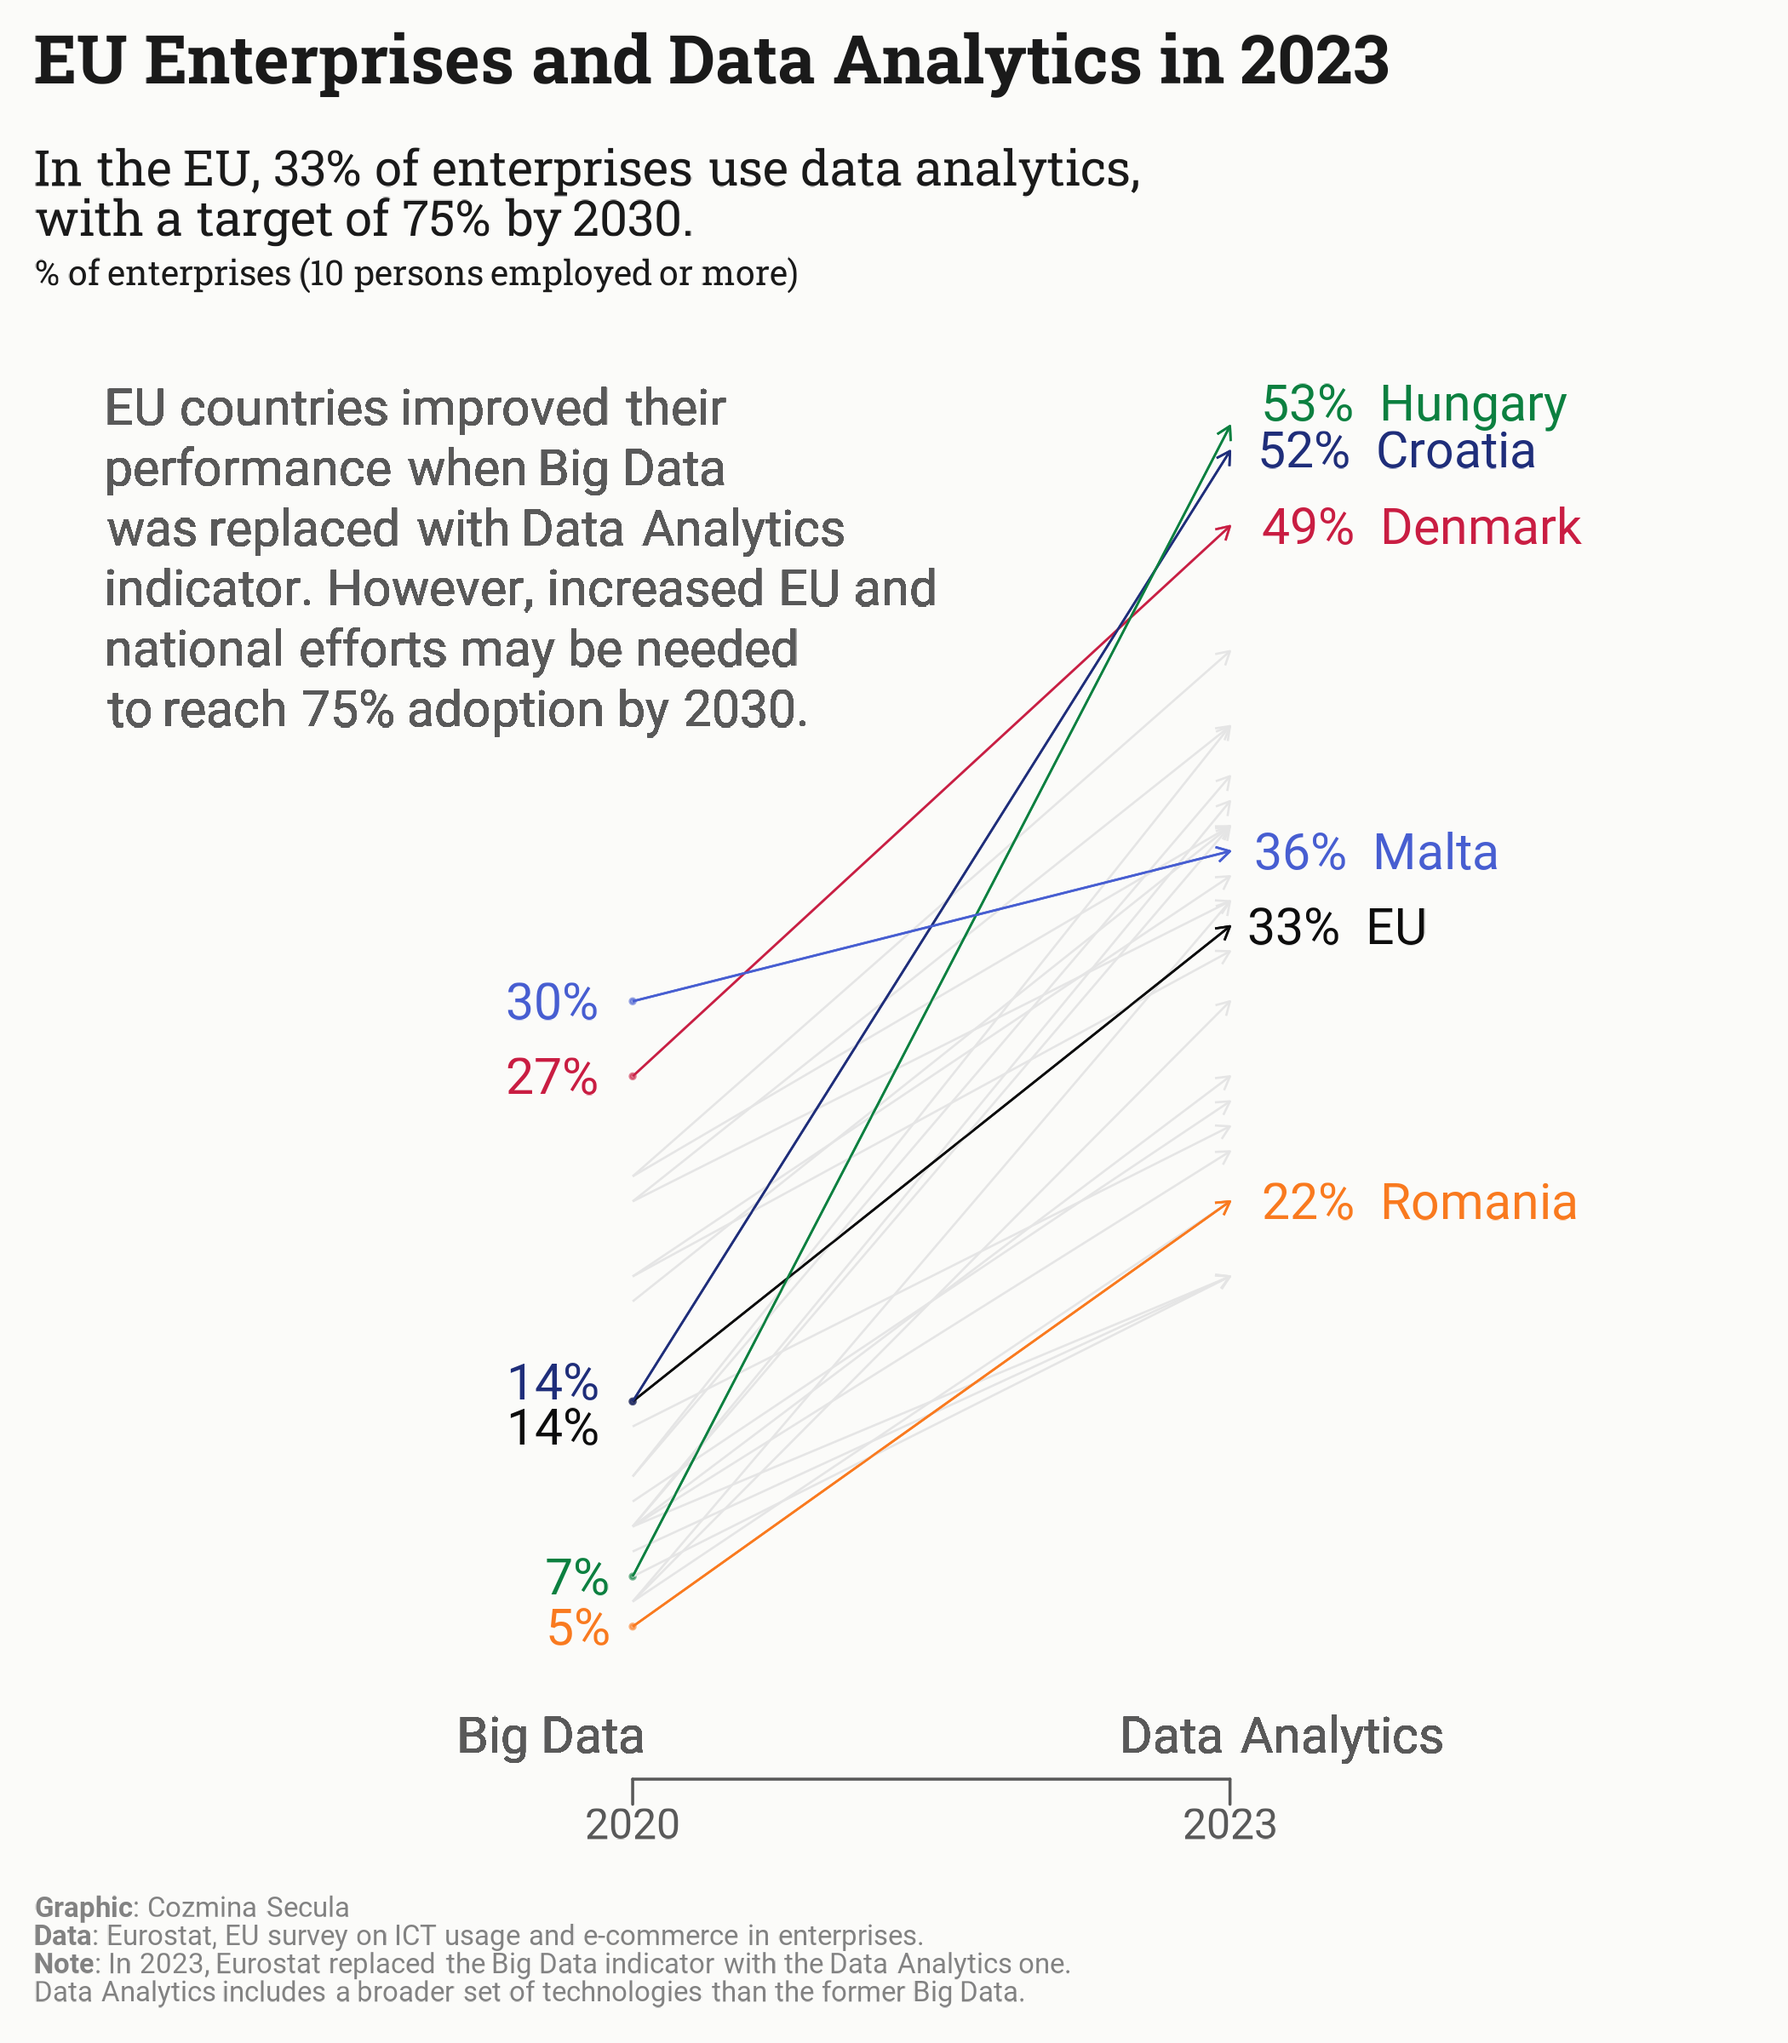
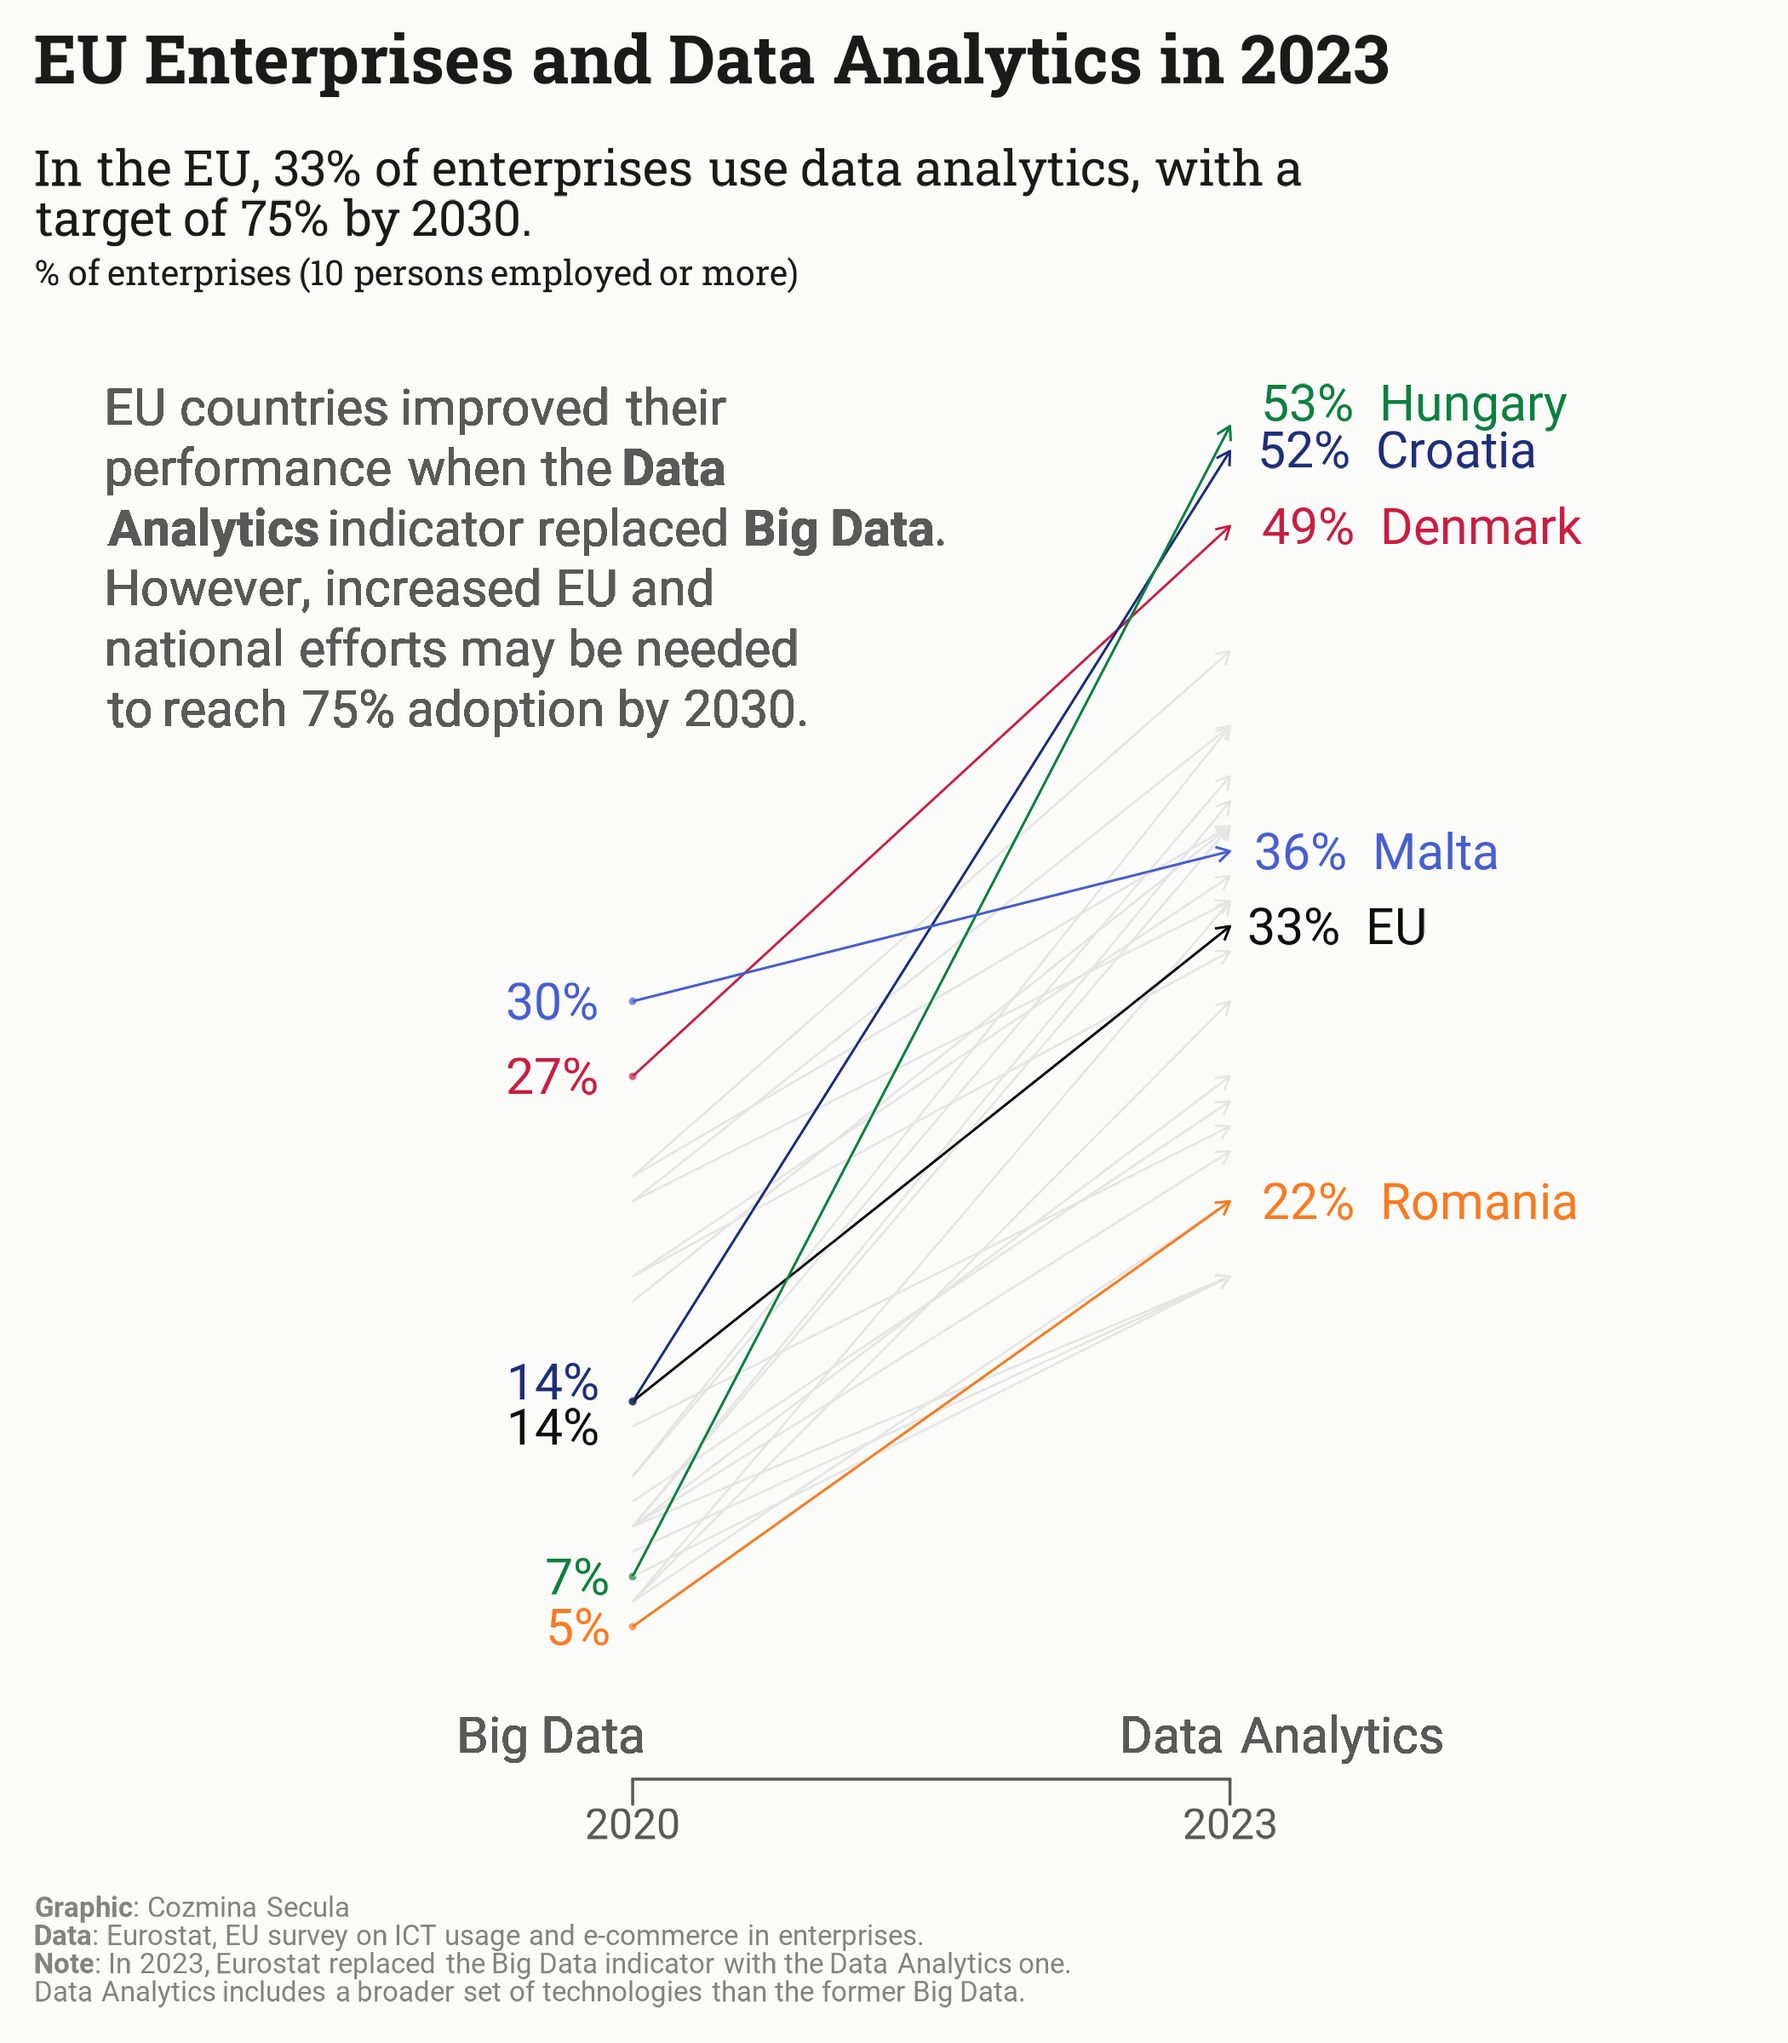
update

Changed region(s): [[0.0619, 0.2188, 0.5262, 0.3125], [0.031, 0.0938, 0.3714, 0.125], [0.65, 0.0625, 0.7429, 0.0938]]

diff --git a/docs/weekly_dataviz/week_4_2024_09_26/index.html b/docs/weekly_dataviz/week_4_2024_09_26/index.html
@@ -281,7 +281,7 @@ pre > code.sourceCode > span > a:first-child::before { text-decoration: underlin
 <span><span class="co"># Plot --------------------------------------------------------------------</span></span>
 <span></span>
 <span><span class="va">subtitle</span> <span class="op">&lt;-</span> <span class="fu"><a href="https://rdrr.io/r/base/paste.html">paste0</a></span><span class="op">(</span></span>
-<span>  <span class="st">"In the EU, 33% of enterprises use data analytics, &lt;br&gt;with a target of 75% by 2030.&lt;br&gt;"</span>,</span>
+<span>  <span class="st">"In the EU, 33% of enterprises use data analytics, with a &lt;br&gt;target of 75% by 2030.&lt;br&gt;"</span>,</span>
 <span>  <span class="st">"&lt;span style='font-size:13px'&gt;% of enterprises (10 persons employed or more)&lt;/span&gt;"</span></span>
 <span><span class="op">)</span></span>
 <span></span>
@@ -292,7 +292,7 @@ pre > code.sourceCode > span > a:first-child::before { text-decoration: underlin
 <span></span>
 <span><span class="va">title</span> <span class="op">&lt;-</span> <span class="fu"><a href="https://rdrr.io/r/base/paste.html">paste0</a></span><span class="op">(</span><span class="st">"EU Enterprises and Data Analytics in 2023"</span><span class="op">)</span></span>
 <span></span>
-<span><span class="va">callout</span> <span class="op">&lt;-</span> <span class="fu"><a href="https://rdrr.io/r/base/paste.html">paste0</a></span><span class="op">(</span><span class="st">"EU countries improved their &lt;br&gt;performance when Big Data &lt;br&gt;was replaced with Data Analytics &lt;br&gt;indicator. However, increased EU and &lt;br&gt;national efforts may be needed &lt;br&gt;to reach 75% adoption by 2030."</span><span class="op">)</span></span>
+<span><span class="va">callout</span> <span class="op">&lt;-</span> <span class="fu"><a href="https://rdrr.io/r/base/paste.html">paste0</a></span><span class="op">(</span><span class="st">"EU countries improved their &lt;br&gt;performance when the &lt;b&gt;Data &lt;br&gt; Analytics&lt;/b&gt; indicator replaced &lt;b&gt;Big Data&lt;/b&gt;.&lt;br&gt; However, increased EU and &lt;br&gt;national efforts may be needed &lt;br&gt;to reach 75% adoption by 2030."</span><span class="op">)</span></span>
 <span></span>
 <span><span class="co"># Define the countries of interest</span></span>
 <span><span class="va">highlight_countries</span> <span class="op">&lt;-</span> <span class="fu"><a href="https://rdrr.io/r/base/c.html">c</a></span><span class="op">(</span><span class="st">"Hungary"</span>, <span class="st">"Croatia"</span>, <span class="st">"Denmark"</span>, <span class="st">"Romania"</span>, <span class="st">"Malta"</span>, <span class="st">"EU"</span><span class="op">)</span></span>
@@ -1073,7 +1073,7 @@ window.document.addEventListener("DOMContentLoaded", function (event) {
 <span id="cb2-109"><a href="#cb2-109" aria-hidden="true" tabindex="-1"></a><span class="co"># Plot --------------------------------------------------------------------</span></span>
 <span id="cb2-110"><a href="#cb2-110" aria-hidden="true" tabindex="-1"></a></span>
 <span id="cb2-111"><a href="#cb2-111" aria-hidden="true" tabindex="-1"></a>subtitle <span class="ot">&lt;-</span> <span class="fu">paste0</span>(</span>
-<span id="cb2-112"><a href="#cb2-112" aria-hidden="true" tabindex="-1"></a>  <span class="st">"In the EU, 33% of enterprises use data analytics, &lt;br&gt;with a target of 75% by 2030.&lt;br&gt;"</span>,</span>
+<span id="cb2-112"><a href="#cb2-112" aria-hidden="true" tabindex="-1"></a>  <span class="st">"In the EU, 33% of enterprises use data analytics, with a &lt;br&gt;target of 75% by 2030.&lt;br&gt;"</span>,</span>
 <span id="cb2-113"><a href="#cb2-113" aria-hidden="true" tabindex="-1"></a>  <span class="st">"&lt;span style='font-size:13px'&gt;% of enterprises (10 persons employed or more)&lt;/span&gt;"</span></span>
 <span id="cb2-114"><a href="#cb2-114" aria-hidden="true" tabindex="-1"></a>)</span>
 <span id="cb2-115"><a href="#cb2-115" aria-hidden="true" tabindex="-1"></a></span>
@@ -1084,7 +1084,7 @@ window.document.addEventListener("DOMContentLoaded", function (event) {
 <span id="cb2-120"><a href="#cb2-120" aria-hidden="true" tabindex="-1"></a></span>
 <span id="cb2-121"><a href="#cb2-121" aria-hidden="true" tabindex="-1"></a>title <span class="ot">&lt;-</span> <span class="fu">paste0</span>(<span class="st">"EU Enterprises and Data Analytics in 2023"</span>)</span>
 <span id="cb2-122"><a href="#cb2-122" aria-hidden="true" tabindex="-1"></a></span>
-<span id="cb2-123"><a href="#cb2-123" aria-hidden="true" tabindex="-1"></a>callout <span class="ot">&lt;-</span> <span class="fu">paste0</span>(<span class="st">"EU countries improved their &lt;br&gt;performance when Big Data &lt;br&gt;was replaced with Data Analytics &lt;br&gt;indicator. However, increased EU and &lt;br&gt;national efforts may be needed &lt;br&gt;to reach 75% adoption by 2030."</span>)</span>
+<span id="cb2-123"><a href="#cb2-123" aria-hidden="true" tabindex="-1"></a>callout <span class="ot">&lt;-</span> <span class="fu">paste0</span>(<span class="st">"EU countries improved their &lt;br&gt;performance when the &lt;b&gt;Data &lt;br&gt; Analytics&lt;/b&gt; indicator replaced &lt;b&gt;Big Data&lt;/b&gt;.&lt;br&gt; However, increased EU and &lt;br&gt;national efforts may be needed &lt;br&gt;to reach 75% adoption by 2030."</span>)</span>
 <span id="cb2-124"><a href="#cb2-124" aria-hidden="true" tabindex="-1"></a></span>
 <span id="cb2-125"><a href="#cb2-125" aria-hidden="true" tabindex="-1"></a><span class="co"># Define the countries of interest</span></span>
 <span id="cb2-126"><a href="#cb2-126" aria-hidden="true" tabindex="-1"></a>highlight_countries <span class="ot">&lt;-</span> <span class="fu">c</span>(<span class="st">"Hungary"</span>, <span class="st">"Croatia"</span>, <span class="st">"Denmark"</span>, <span class="st">"Romania"</span>, <span class="st">"Malta"</span>, <span class="st">"EU"</span>)</span>

diff --git a/docs/weekly_dataviz.html b/docs/weekly_dataviz.html
@@ -257,7 +257,7 @@ window.Quarto = {
 
 <div class="quarto-listing quarto-listing-container-default" id="listing-listing">
 <div class="list quarto-listing-default">
-<div class="quarto-post image-right" data-index="0" data-listing-date-sort="1727298000000" data-listing-file-modified-sort="1727679288469" data-listing-date-modified-sort="NaN" data-listing-reading-time-sort="15" data-listing-word-count-sort="2908">
+<div class="quarto-post image-right" data-index="0" data-listing-date-sort="1727298000000" data-listing-file-modified-sort="1727681183024" data-listing-date-modified-sort="NaN" data-listing-reading-time-sort="15" data-listing-word-count-sort="2908">
 <div class="thumbnail">
 <p><a href="./weekly_dataviz/week_4_2024_09_26/index.html" class="no-external"></a></p><a href="./weekly_dataviz/week_4_2024_09_26/index.html" class="no-external">
 <p><img loading="lazy" src="./weekly_dataviz/week_4_2024_09_26/da_plot.png" class="thumbnail-image"></p>

diff --git a/docs/index.html b/docs/index.html
@@ -360,7 +360,7 @@ No matching items
 <h2 data-anchor-id="weekly-dataviz">Weekly DataViz</h2>
 <div id="listing-weekly_dataviz" class="quarto-listing quarto-listing-container-grid">
 <div class="list grid quarto-listing-cols-3">
-<div class="g-col-1" data-index="0" data-listing-date-sort="1727298000000" data-listing-file-modified-sort="1727679288469" data-listing-date-modified-sort="NaN" data-listing-reading-time-sort="15" data-listing-word-count-sort="2908">
+<div class="g-col-1" data-index="0" data-listing-date-sort="1727298000000" data-listing-file-modified-sort="1727681183024" data-listing-date-modified-sort="NaN" data-listing-reading-time-sort="15" data-listing-word-count-sort="2908">
 <a href="./weekly_dataviz/week_4_2024_09_26/index.html" class="quarto-grid-link">
 <div class="quarto-grid-item card h-100 card-left">
 <p class="card-img-top">
